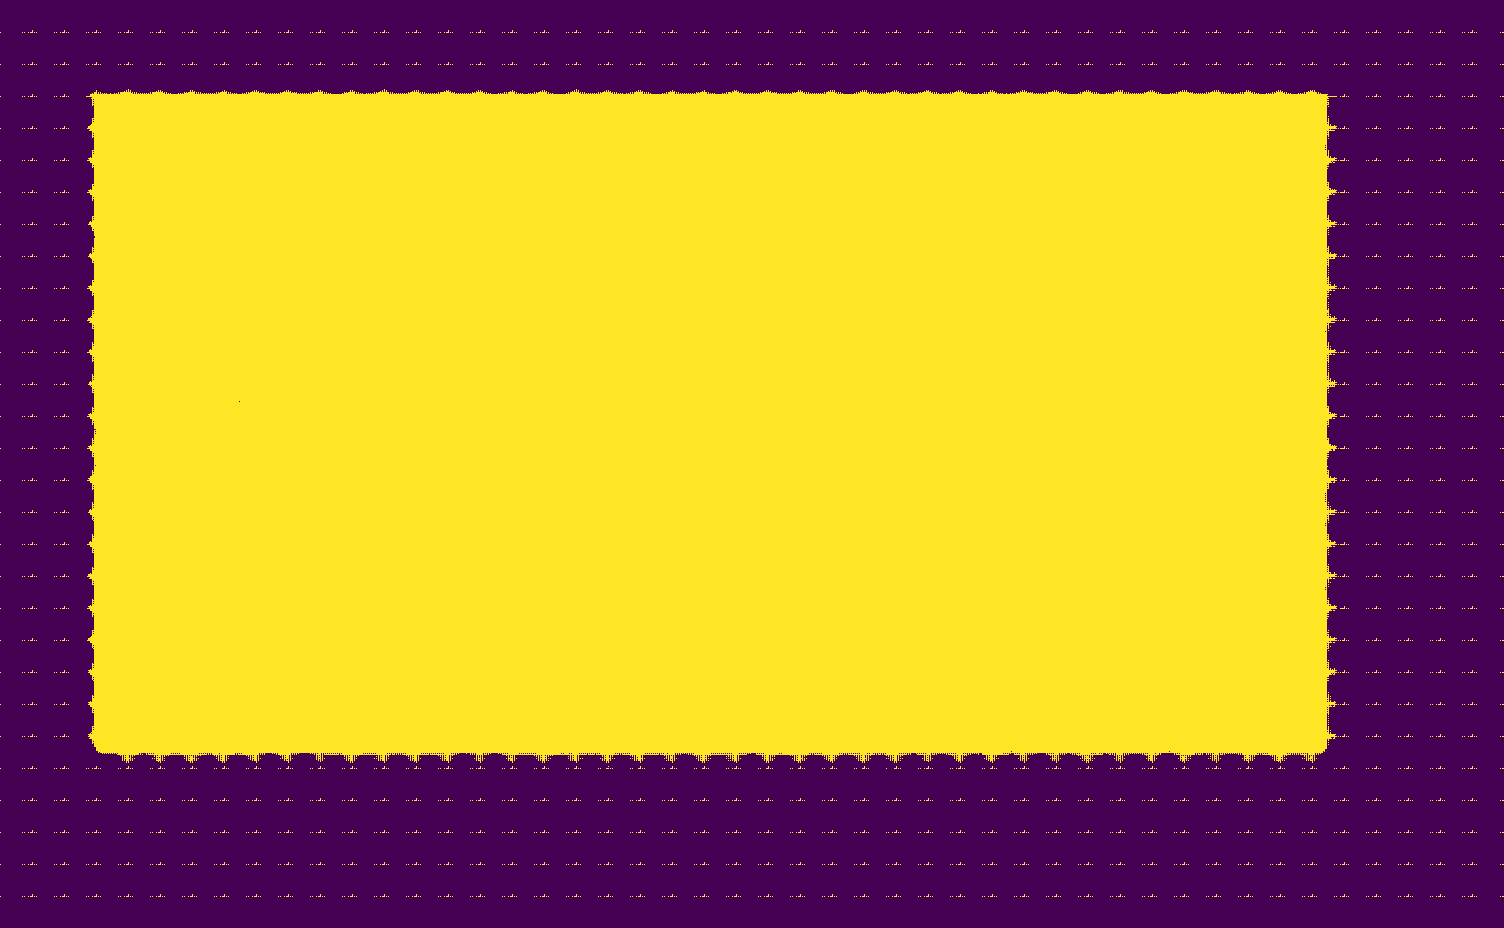
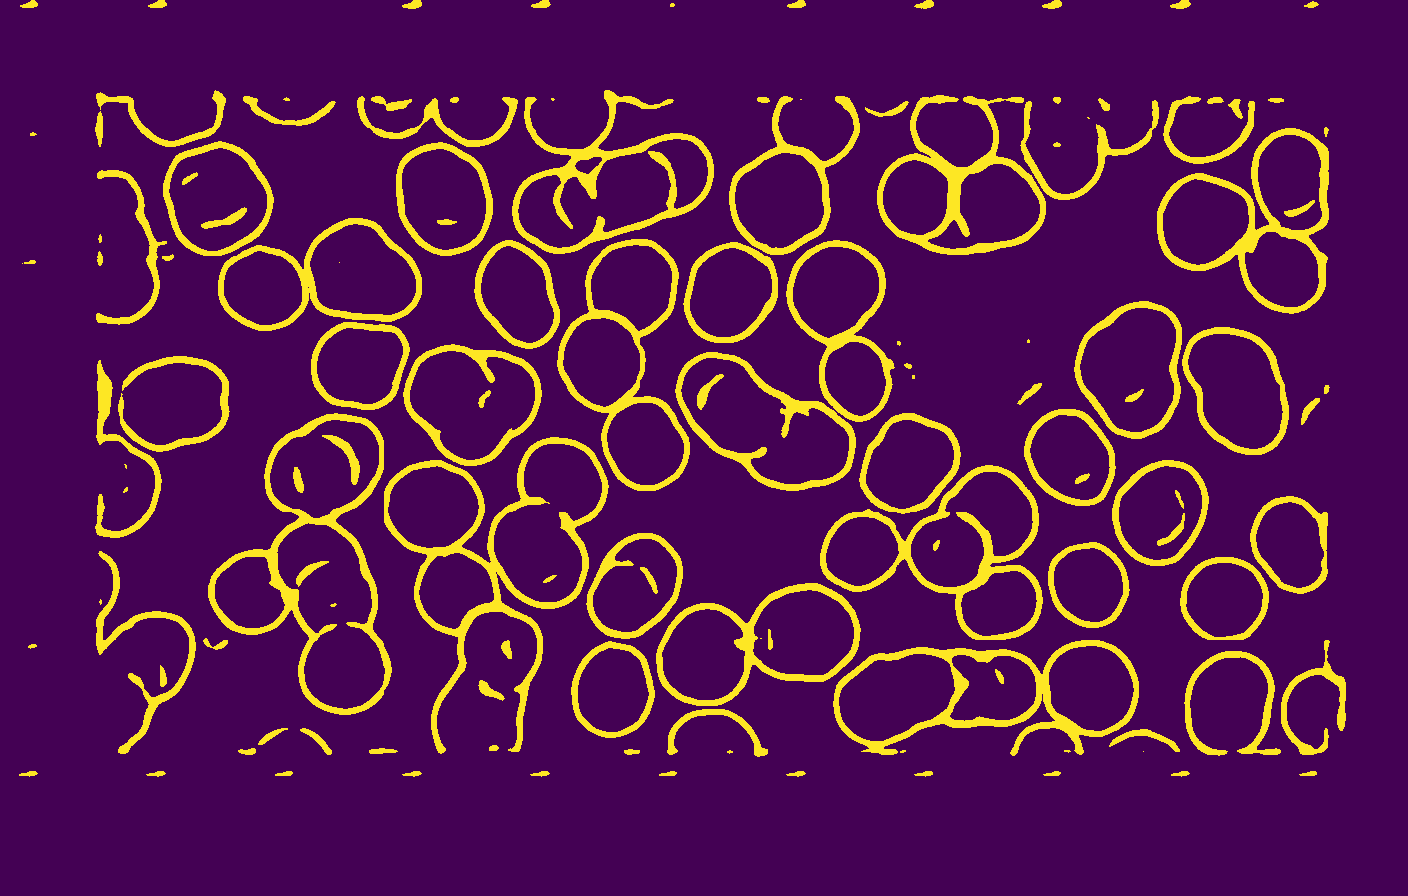
Updated latest working MSE weights from paperspace!

diff --git a/src/run.py b/src/run.py
@@ -11,8 +11,8 @@ from model import segnet, get_callbacks
 
 
 # global variables
-input_shape     = (32, 32, 3)
-output_shape    = (32, 32, 1)
+input_shape     = (128, 128, 3)
+output_shape    = (128, 128, 1)
 padding         = [200, 100]
 
 
@@ -308,11 +308,11 @@ def component_labeling(img='edge.png'):
 
 # main program
 if __name__ == '__main__':
-    train('mse_32')
+    # train('mse')
     # evaluate(model_name='mse')
-    # predict(model_name='mse_32', img='Im037_0.jpg')
-    # threshold(img='mask.png')
-    # threshold(img='edge.png')
-    # threshold(img='edge-mask.png')
-    # hough_transform(img='edge.png')
-    # component_labeling(img='edge-mask.png')
+    predict(model_name='mse', img='Im037_0.jpg')
+    threshold(img='mask.png')
+    threshold(img='edge.png')
+    threshold(img='edge-mask.png')
+    hough_transform(img='edge.png')
+    component_labeling(img='edge-mask.png')

diff --git a/src/model.py b/src/model.py
@@ -27,7 +27,7 @@ def get_callbacks(name):
 
 # building the segnet model
 def segnet():
-    inputs = tf.keras.layers.Input((32, 32, 3))
+    inputs = tf.keras.layers.Input((128, 128, 3))
 
     # encoder
     filters = 64
